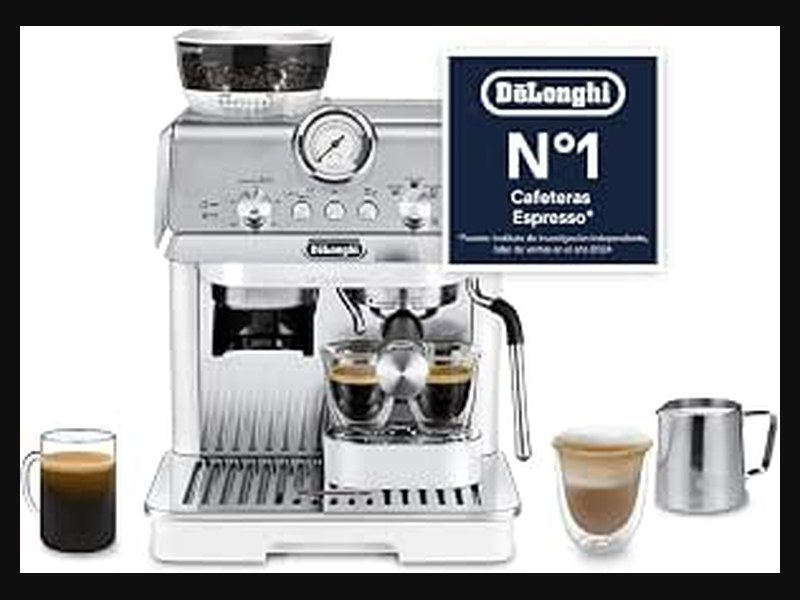
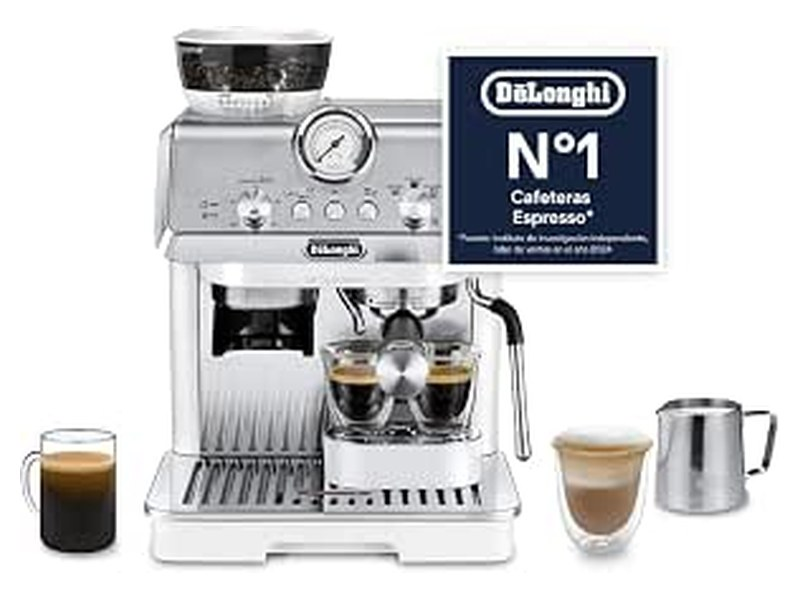
fix(ui): descripciones sin line-clamp-2 + 3 primeras re-escaladas 580px + fondo blanco ya desplegado
- Catalogo: quita line-clamp-2 que cortaba 180-220ch descripciones
- Dedica/Victoria/Specialista re-generadas 564x580/413x580/760x547 sobre canvas blanco 800x600 (coherente con ProductImage bg-white f5e0c23)
- Vercel cache MISS ahora sirve 46K/34K/57K reales, no 23K pequeño

Changed region(s): [[0.0, 0.0, 1.0, 1.0]]

diff --git a/src/app/catalogo/page.tsx b/src/app/catalogo/page.tsx
@@ -145,7 +145,7 @@ function CatalogoInner() {
                   <p className="text-xs font-mono text-stone-500">{i.brand}</p>
                   <p className="font-bold text-sm text-white">{i.name}</p>
                   <p className="text-xs text-amber-400 font-mono">{i.price}€</p>
-                  {i.description && <p className="text-[13px] leading-relaxed text-stone-300 line-clamp-2 mt-1">{i.description}</p>}
+                  {i.description && <p className="text-[13px] leading-relaxed text-stone-300 mt-1">{i.description}</p>}
                   {i.type==="machine" ? (
                     <div className="grid grid-cols-2 gap-1 mt-2 text-[10px]">
                       <span className="bg-stone-950 border border-stone-800 rounded px-1.5 py-1">📏 {i.diam ?? "—"}mm</span>
